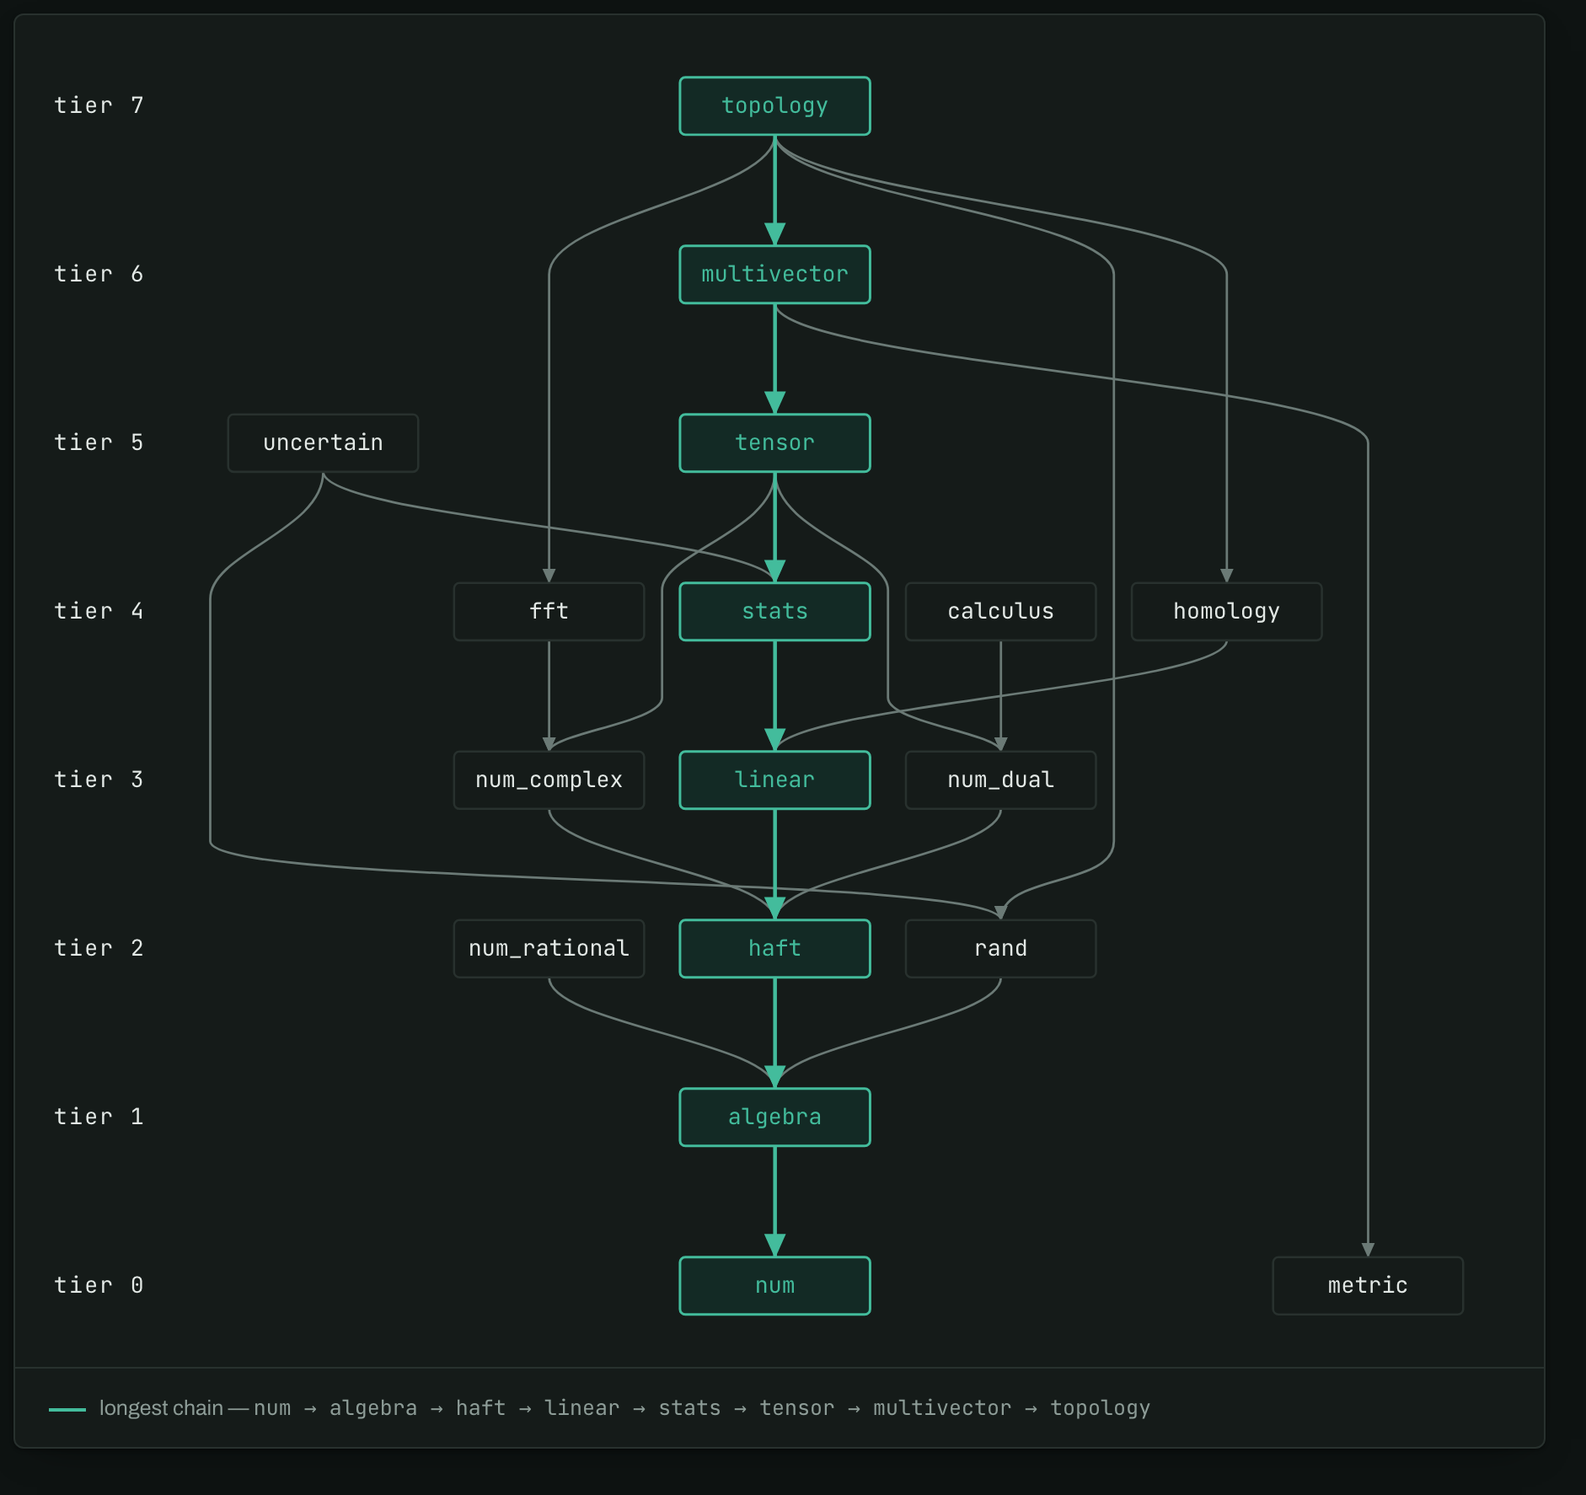
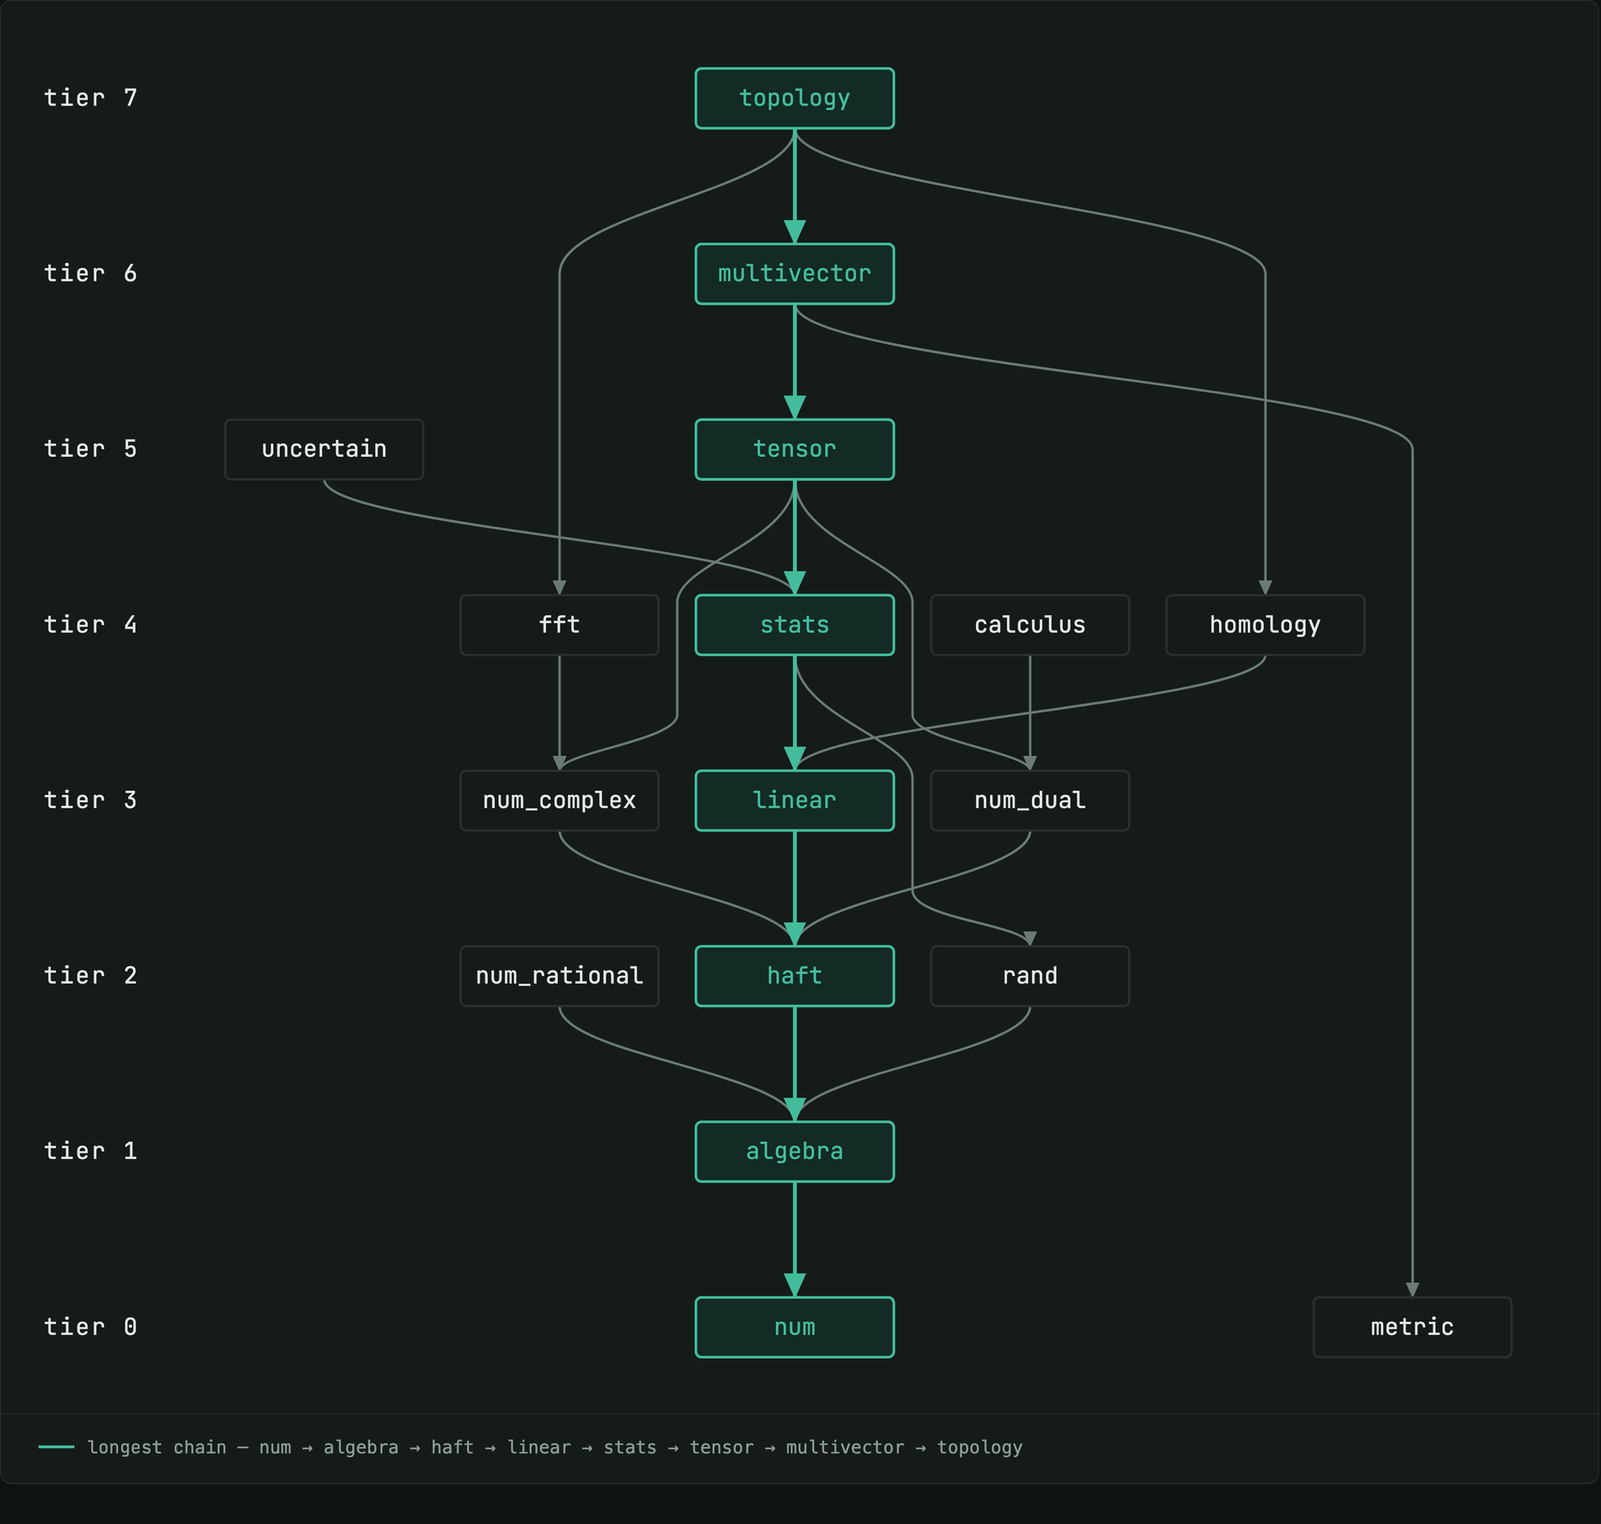
doc(deep_causality_unified_math): Updated README.md and dependency graph.

diff --git a/deep_causality_unified_math/README.md b/deep_causality_unified_math/README.md
@@ -10,11 +10,11 @@ Unified math grew from a small idea. Tensors and multivectors needed to compose,
 
 ## The stack
 
-The dependency graph is drawn as its transitive reduction, so
-`tensor -> num` is omitted where `tensor -> linear -> haft -> algebra -> num` already implies it.
-Two dependencies leave the folder, over four edges: `deep_causality_ast`, which `tensor` and
-`uncertain` build on, and `deep_causality_par`, which `fft` and `topology` build on. Both live in
-`deep_causality_utils/`; 
+The dependency graph is drawn as its transitive reduction: fifty-eight direct edges become
+twenty-one, because `tensor -> num` is omitted where `tensor -> stats -> linear -> haft -> algebra
+-> num` already implies it. Reachability is unchanged. Two dependencies leave the folder, over four
+edges: `deep_causality_ast`, which `tensor` and `uncertain` build on, and `deep_causality_par`,
+which `fft` and `topology` build on. Both live in `deep_causality_utils/`.
 
 
 ```
@@ -42,7 +42,7 @@ statistics, then tensors, to topology at tier 7. The longest chain is highlighte
 | `deep_causality_algebra` | 1 | Groups, rings, fields, algebras, and isomorphism markers |
 | `deep_causality_haft` | 2 | Applied category theory: HKT, functor, applicative, monad, foldable, arrow, and a type-encoded effect system |
 | `deep_causality_num_rational` | 2 | Exact rationals over the integers |
-| `deep_causality_rand` | 2 | Entropy: generators, the raw machine word, the Boolean draw, Sobol, and range sampling. States no density |
+| `deep_causality_rand` | 2 | Entropy: generators, the raw machine word, the Boolean draw, the Sobol sequence, and range sampling. It names no density and states no moment |
 | `deep_causality_linear` | 3 | Sparse CSR, dense and bit-packed 𝔽₂ matrices and vectors; eliminations, decompositions, conjugate gradient, etc. |
 | `deep_causality_num_complex` | 3 | Complex, quaternion and octonion number types |
 | `deep_causality_num_dual` | 3 | Dual numbers, forward-mode automatic differentiation |
@@ -51,7 +51,7 @@ statistics, then tensors, to topology at tier 7. The longest chain is highlighte
 | `deep_causality_homology` | 4 | Chain complexes, boundary operators and homology over a chosen coefficient field. No geometry |
 | `deep_causality_stats` | 4 | Statistics over slices — entropy, log-sum-exp, moments, Pearson, covariance, ridge, logistic IRLS, Gaussian log-density, proportions, binning — and the distributions, which are defined by the densities and moments that live here |
 | `deep_causality_tensor` | 5 | N-index tensors, broadcasting, Einstein summation, the tensor-train stack |
-| `deep_causality_uncertain` | 5 | A first-order type for uncertain programming |
+| `deep_causality_uncertain` | 5 | Uncertain values as lazy computation graphs, generic in the scalar. The graph is an `Arrow`; ensembles materialise into a container the caller names |
 | `deep_causality_multivector` | 6 | Multivectors for geometric algebra. |
 | `deep_causality_topology` | 7 | Cell complexes, manifolds, discrete exterior calculus, gauge fields, differential geometry |
 
@@ -61,12 +61,29 @@ witnesses over their number types and so depend on `haft`, which `num_rational` 
 
 `tensor` and `uncertain` sit above `stats` because both take their statistics from it rather than
 carrying their own: `tensor` reads a matrix as observations and variables and hands the reduction
-over, `uncertain` summarises its samples the same way. That lift carries `multivector` and
-`topology` up with them, and puts `stats` on the longest chain.
+over, `uncertain` summarises its samples the same way and draws them from the distributions that
+live there. That lift carries `multivector` and `topology` up with them, and puts `stats` on the
+longest chain.
+
+`stats` depends on `rand`, which is the one edge in the figure that skips a tier downward. A
+distribution is defined by its density and its moments, and both are statistics, so the shaped
+distributions — normal, exponential, Cauchy, Weibull, log-normal, Poisson, categorical, Bernoulli
+and the unit-interval draws — live beside them. `rand` keeps what is genuinely entropy: a source of
+bits, the raw machine word, the Boolean draw, the Sobol sequence and a value uniform over a range.
+Coherence forced the seam rather than taste: a blanket `impl<T: RealField> Distribution<T> for
+StandardUniform` is `error[E0119]` against the `u64`, `u32` and `bool` implementations a generator
+must also provide, because the compiler cannot prove `u64` will never be a real field. The
+direction is downhill, tier 4 to tier 2, so nothing circles back, and `stats` re-exports the
+generator traits by name so a crate that wants to draw from a distribution needs no second
+dependency to spell the bound.
 
 Nothing here has a **required** external dependency. Four crates have an optional one: `num` for
 `libm`, `rand` for `getrandom`, and `fft` and `topology` for `rayon`. All four sit behind feature
 gates that are disabled by default.
+
+The figure and the two tier blocks above are checked by hand. `AGENTS.md` cites
+`scripts/check_tiers.py` as re-deriving the tiers from the manifests; no such script exists on
+`main`.
 
 ## How they compose
 
@@ -124,18 +141,58 @@ The capstone parallel-transports a unit timelike spinor along a discretized Mink
 `Cl(3,1)`. Four crates participate and the final drift against the closed-form `(cosh θ, sinh θ)` is
 about `1.7e-31` at `Float106`.
 
+**Programs compose differently from containers, and `Arrow` is where they do.** The container
+traits carry no `'static` bound, deliberately: a functor receives a function, applies it and drops
+it, so the function never outlives the call. A carrier that *stores* a closure needs bounds those
+traits do not provide, and an implementation cannot add them — `error[E0276]: impl has stricter
+requirements than trait`. `deep_causality_uncertain` is the case that shows the seam. Its lazy
+graph is a program rather than data, so it takes `Arrow` instead of a witness:
+
+```rust
+impl<R: RandScalar> Arrow for Uncertain<R> {
+    type In = SampleIndex;
+    type Out = Result<R, UncertainError>;
+
+    fn run(&self, at: SampleIndex) -> Self::Out {
+        self.sample_at(&SampleSession::seeded(at.seed()), at.index())
+    }
+}
+```
+
+`run` takes `&self`, which is admissible only because evaluating the graph at an address is a pure
+function: a draw is settled by the session seed, the sample index and the leaf's ordinal, and by
+nothing else. Nothing is stored between calls, which is also why `x - x` is exactly zero — a leaf
+reached twice within one graph is one draw. An ensemble goes the other way and is ordinary data:
+`Uncertain::materialize::<W>` takes a witness and hands back `W::Type<R>`, a `DenseVector<R>`, a
+rank-1 `CausalTensor<R>` or a `Vec<R>`, so the draws arrive already carrying every categorical
+structure that witness provides and `uncertain` names neither container crate.
+
+Two ensembles drawn from one session at the *same* indices are correlated by index, so combining
+them is a positional zip — `Semigroupal::zip_with` on `ZipTensorWitness` or `ZipDenseVectorWitness`,
+and `DiagonalTraversable::sequence_zip` to turn a structure of ensembles inside out.
+`Traversable::sequence` is the hazard rather than the tool: it forms the cartesian product, so four
+quantities at fifty draws each give 50⁴ = 6 250 000 combinations instead of fifty correlated
+tuples, and every combination is individually well-formed, which makes the count the only symptom.
+
 | Trait | Implementers outside `haft` |
 |---|---|
 | `HKT`, `Functor`, `Foldable` | `linear`, `tensor`, `multivector`, `topology`, `num_complex`, `num_dual` |
 | `Applicative`, `Pure`, `CoMonad` | `linear`, `tensor`, `multivector`, `topology` |
 | `Monad` | `linear`, `tensor`, `topology` |
-| `Semigroupal`, `MonoidalApplicative` | `num_complex`, `num_dual`, `tensor` |
+| `Semigroupal`, `MonoidalApplicative`, `Convolutional` | `linear`, `tensor`, `num_complex`, `num_dual` |
+| `LaxMonoidal` | `num_complex`, `num_dual` |
+| `Traversable`, `DiagonalTraversable`, `Collectable` | `linear`, `tensor` |
 | `Adjunction` | `topology` |
-| `Arrow` | `calculus`, `tensor` |
-| `Traversable` | `linear`, `tensor` |
-| `NaturalTransformation`, `Category`, `Kleisli`, `Bifunctor`, `Profunctor` | none |
+| `Arrow` | `calculus`, `tensor`, `uncertain` |
+| `NaturalTransformation`, `Category`, `Bifunctor`, `Profunctor` | none |
 
-That table is the work list. `openspec/notes/archive/unified_math/unified_math_gaps.md` carries the full
+`Kleisli` is absent from the last row on purpose. It is not a trait a container implements:
+`Kleisli<M>` is a `Category` for **any** `M: Monad<M>`, so the three container monads above —
+`CausalTensorWitness`, `DenseVectorWitness`, `ManifoldWitness` — already have a Kleisli category
+each, with `pure` as the identity and `bind` as composition. Its laws reduce to the monad laws, and
+both halves are machine-checked in `lean/DeepCausalityFormal/Haft/Kleisli.lean`.
+
+The rest of that table is the work list. `openspec/notes/archive/unified_math/unified_math_gaps.md` carries the full
 analysis: which absences are real gaps and which are correct (a `Ratio<A> -> Ratio<B>` under an
 arbitrary `f` breaks coprimality, so `num_rational` is right to have none), what each costs, and a
 ranking from mechanical to design fork. Two findings there were measured by running code rather than
@@ -208,7 +265,7 @@ rounding the loop accumulates can be measured in the working type and read out a
 index is a count lifted onto the real axis. The program compiles unchanged at all four precisions.
 
 ```rust
-use deep_causality_algebra::{Real, RealField, Scalar};
+use deep_causality_algebra::{Real, Scalar};
 use deep_causality_num::{lift, lift_count, lower, to_count};
 
 /// The working type. Switch it to `f32` or `deep_causality_num::Float106`; nothing below changes.
@@ -447,7 +504,7 @@ than drifting.
 ```rust
 use deep_causality_algebra::{Real, Scalar};
 use deep_causality_num::{Float106, Lift, ToPrimitive, lift, lift_count, lower};
-use deep_causality_stats::{RandWidth, RandomExt, Xoshiro256};
+use deep_causality_stats::{Distribution, RandomExt, StandardUniform, Xoshiro256};
 
 /// The master precision, where the parts meet. It must be no narrower than the widest part.
 type Master = Float106;
@@ -460,7 +517,10 @@ const TERMS: u64 = 1_000_000;
 /// Noise-bound: a Monte Carlo estimate of ∫₀¹ x² dx from stored draws. The statistical error
 /// is about 1/√n and buries rounding at every precision. Returns the estimate and the bytes
 /// the draws occupied.
-fn monte_carlo<S: Scalar + RealField + RandWidth>(samples: u64, seed: u64) -> (S, usize) {
+fn monte_carlo<S: Scalar>(samples: u64, seed: u64) -> (S, usize)
+where
+    StandardUniform: Distribution<S>,
+{
     let mut rng = Xoshiro256::from_seed(seed);
     let draws: Vec<S> = (0..samples).map(|_| rng.random::<S>()).collect();
     let bytes = core::mem::size_of_val(draws.as_slice());
@@ -490,8 +550,12 @@ fn series<S: Scalar>(terms: u64) -> S {
 }
 
 /// The three errors against closed forms, all at one precision. `lower` asks for `ToPrimitive`,
-/// which `Scalar` does not carry.
-fn errors_at<S: Scalar + RealField + RandWidth + ToPrimitive>() -> [f64; 3] {
+/// which `Scalar` does not carry; the uniform draw asks for `StandardUniform: Distribution<S>`,
+/// which is how `deep_causality_stats` states "this scalar can be sampled".
+fn errors_at<S: Scalar + ToPrimitive>() -> [f64; 3]
+where
+    StandardUniform: Distribution<S>,
+{
     let one = lift::<S>(1.0);
     let error = |value: S, exact: S| lower(Real::abs(value - exact));
     [
@@ -574,121 +638,6 @@ The composed value lands at 5.9e-4, which is the noise-bound part's own error, a
 no narrower than the widest contributor, so that the crossings lose nothing. The accuracy of the
 composed value is then set by its parts, each at the precision its physics asked for. That is the
 trade-off made explicit: a precision chosen per part against a requirement.
-
-## Economic impact
-
-An estimate, from stated assumptions, of what the pick in the previous section is worth on a
-simulation that conventionally runs on a supercomputer: a convection-permitting ensemble forecast
-of local weather. Nothing in this section was measured. Every number follows from the assumption
-table by the arithmetic shown, so a reader with a different model can substitute their own.
-
-**The simulation.** A limited-area model on a 1000 km square at 1 km spacing with 100 levels, run
-as a 40-member ensemble, cycled with an ensemble-variational assimilation, and verified against
-conservation budgets. Its parts are bound the way the three computations above were bound.
-
-- The ensemble members are noise-bound. Their spread is the signal, and rounding at `f32` sits
-  far below the perturbations that make them differ. That finding is what let ECMWF move its
-  operational forecast model to single precision in 2021 (Váňa et al., 2017). The members hold
-  the fields, and the fields are where the memory goes.
-- The assimilation is mesh-bound in the sense of the previous section: a minimisation whose
-  gradients cancel and whose conditioning asks for `f64`. It stays at `f64` in both
-  configurations.
-- The conservation budgets are reference-bound: mass, energy and moisture integrals accumulated
-  over a whole forecast, where a drift of 1e-12 per step is the quantity being measured. They go
-  to `Float106`. They are reductions, so they cost almost no memory.
-
-| Assumption | Value |
-|---|---|
-| grid | 1000 × 1000 columns × 100 levels = 10⁸ points |
-| resident 3D fields per member | 48: 12 prognostic at two time levels, 12 tendencies, 12 diagnostics |
-| halo cells and exchange buffers | 15 % on top of field memory |
-| ensemble | 40 members |
-| assimilation working set | 10 model states at `f64` |
-| ensemble statistics | mean and spread of 20 fields at `f64` |
-| reference budgets | 4 budgets × 100 levels per member |
-| `Float106` cost per operation | 2 to 4 × `f64`, so it is spent on reductions and never on fields |
-| instance headroom | 10 % of node memory for the operating system, MPI and I/O |
-| the run | one assimilation cycle and its 40 forecasts: 1 hour at `f64`, of which the members take 80 % and the assimilation and I/O 20 % |
-| `f32` time on the members | 40 % less than `f64`, transferred from ECMWF's measurement on the IFS (Váňa et al., 2017) |
-| budget reductions | per step at `f64`, accumulated across steps at `Float106`; no measurable time |
-| billing | per second of use, so a shorter run bills fewer hours |
-| prices | AWS on-demand Linux list prices, US East (N. Virginia), instances.vantage.sh, 2026-09-03 |
-| GB | 10⁹ bytes; 1 GiB = 1.074 GB |
-
-**The memory.** One member's fields are 48 × 10⁸ × 8 B = 38.4 GB at `f64` and 19.2 GB at
-`f32`; with halos, 44.16 GB and 22.08 GB.
-
-| Component | blanket `f64` | mixed, per part | saving |
-|---|---|---|---|
-| 40 ensemble members, with halos | 1766.4 GB | 883.2 GB at `f32` | 883.2 GB |
-| assimilation working set | 384.0 GB | 384.0 GB at `f64` | 0 |
-| ensemble statistics | 32.0 GB | 32.0 GB at `f64` | 0 |
-| reference budgets, 16 000 accumulators | 0.13 MB | 0.26 MB at `Float106` | −0.13 MB |
-| **total** | **2182.4 GB** | **1299.2 GB** | **883.2 GB, 40 %** |
-
-**The price.** On rented nodes the memory has an hourly price, and it is bought in rungs. A cloud
-user fixes the node count, which fixes the cores and the wall clock, then takes the lowest rung
-whose memory holds that node's share of the state with headroom. The ladders below share the
-384, 768 and 1536 GiB rungs and differ in processor: c7a, m7a and r7a on one 192-vCPU AMD
-processor; c8i, m8i and r8i as 384-vCPU Intel bare metal; c8g, m8g and r8g as Graviton4 bare
-metal, where every one of the 192 vCPUs is a core because the processor has no simultaneous
-multithreading. Each rung costs more for the same cores, and the price per terabyte-hour falls
-as the rung rises: $23.90 on c7a, $13.49 on m7a, $8.86 on r7a, $6.07 on the high-memory x2iedn.
-
-| Instance | vCPU | memory | list price |
-|---|---|---|---|
-| c7a.48xlarge, also c7a.metal-48xl | 192 | 384 GiB | $9.85 |
-| m7a.48xlarge | 192 | 768 GiB | $11.13 |
-| r7a.48xlarge | 192 | 1536 GiB | $14.61 |
-| x2idn.32xlarge | 128 | 2048 GiB | $13.34 |
-| x2iedn.32xlarge | 128 | 4096 GiB | $26.68 |
-| c8i.metal-96xl | 384 | 768 GiB | $17.99 |
-| m8i.metal-96xl | 384 | 1536 GiB | $20.32 |
-| r8i.metal-96xl | 384 | 3072 GiB | $26.67 |
-| c8g.metal-48xl | 192 cores | 384 GiB | $7.66 |
-| m8g.metal-48xl | 192 cores | 768 GiB | $8.62 |
-| r8g.metal-48xl | 192 cores | 1536 GiB | $11.31 |
-
-The blanket `f64` state needs 2401 GB of instance memory with headroom and the mixed state
-1429 GB. The best value for money that holds the `f64` state with 384 cores is two r8g nodes at
-$22.62 an hour; the alternatives are one r8i node at $26.67 with half the cores, or two r7a
-nodes at $29.21 with half the cores. On the same two Graviton nodes the mixed state fits one
-rung lower, on m8g. That pair is the master comparison.
-
-| | fixed `f64` | mixed precision | difference |
-|---|---|---|---|
-| state in memory | 2182 GB | 1299 GB | −883 GB, −40 % |
-| instance memory needed | 2401 GB | 1429 GB | −972 GB |
-| best-value configuration | 2 × r8g.metal-48xl | 2 × m8g.metal-48xl | one rung lower |
-| cores | 384 | 384 | same |
-| memory bought | 3072 GiB, 3299 GB | 1536 GiB, 1649 GB | half |
-| bytes moved per member per step, members at `f32` throughout | 1 | 0.5 | half |
-| bytes moved per run, members 80 % and assimilation 20 % | 1 | 0.8 × 0.5 + 0.2 = 0.6 | −40 % |
-| members that fit on eight 512 GB nodes | 74 | 148 | twice |
-| accuracy of the composed result | set by the noise-bound part | set by the noise-bound part | same |
-| list price per hour | $22.62 | $17.23 | −$5.39, −24 % |
-| wall clock per run, members at 0.6 and assimilation at 1 | 1.00 h | 0.8 × 0.6 + 0.2 = 0.68 h | −32 % |
-| **total cost per run** | **$22.62** | **$11.72** | **−$10.90, −48 %** |
-
-The difference is a rung on the ladder and a third off the clock: the same cores, half the memory
-bought, a quarter off the hourly rate, a run that ends 32 % sooner, and the conservation budgets
-carried at `Float106` for a quarter of a megabyte. The 48 % is the product of two effects with
-different standing. The 24 % on the rate is arithmetic on list prices. The 32 % on the clock is
-the members' 80 % of the run running in 60 % of the time, and that 60 % is ECMWF's figure for
-the IFS on its own machines, carried over here as the best available measurement rather than
-as one made on this model. The assimilation keeps its `f64` and its 20 %.
-The saving is a step function of the ladder, so it is not the same at every node count. It is
-largest where the `f64` state is pushed onto the memory-priced instances, 45 % on a single
-virtual node where no 192-vCPU instance holds the `f64` state at all, and it is zero at a node
-count where both states land on the same rung, where the halved byte traffic is what remains.
-Reserved and spot pricing discount both columns alike and leave the percentages where they are.
-
-The rule is the one the previous section stated, precision per part against a requirement. Here
-the requirement has a price, and the price is in the table.
-
-Váňa, F., Düben, P., Lang, S., Palmer, T., Leutbecher, M., Salmond, D., Carver, G. (2017). Single
-Precision in Weather Forecasting Models: An Evaluation with the IFS. *Monthly Weather Review*,
-145(2), 495–502.
 
 ## Further reading
 
